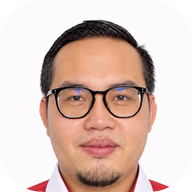
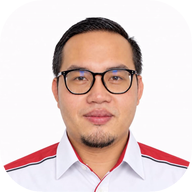
Ikon laman: potongan lebih luas (rambut + kolar)

diff --git a/en/index.html b/en/index.html
@@ -18,9 +18,9 @@
 <meta property="og:image" content="https://wanjasni.my/img/og.jpg?v=3">
 <meta property="og:url" content="https://wanjasni.my/en/">
 <meta name="twitter:card" content="summary_large_image">
-<link rel="icon" href="../img/icon-32.png?v=1" type="image/png" sizes="32x32">
-<link rel="icon" href="../img/icon-192.png?v=1" type="image/png" sizes="192x192">
-<link rel="apple-touch-icon" href="../img/apple-touch-icon.png?v=1">
+<link rel="icon" href="../img/icon-32.png?v=2" type="image/png" sizes="32x32">
+<link rel="icon" href="../img/icon-192.png?v=2" type="image/png" sizes="192x192">
+<link rel="apple-touch-icon" href="../img/apple-touch-icon.png?v=2">
 <link rel="preconnect" href="https://fonts.googleapis.com">
 <link rel="preconnect" href="https://fonts.gstatic.com" crossorigin>
 <link href="https://fonts.googleapis.com/css2?family=Inter:wght@400;500;600;700;800;900&display=swap" rel="stylesheet">

diff --git a/index.html b/index.html
@@ -18,9 +18,9 @@
 <meta property="og:image" content="https://wanjasni.my/img/og.jpg?v=3">
 <meta property="og:url" content="https://wanjasni.my/">
 <meta name="twitter:card" content="summary_large_image">
-<link rel="icon" href="img/icon-32.png?v=1" type="image/png" sizes="32x32">
-<link rel="icon" href="img/icon-192.png?v=1" type="image/png" sizes="192x192">
-<link rel="apple-touch-icon" href="img/apple-touch-icon.png?v=1">
+<link rel="icon" href="img/icon-32.png?v=2" type="image/png" sizes="32x32">
+<link rel="icon" href="img/icon-192.png?v=2" type="image/png" sizes="192x192">
+<link rel="apple-touch-icon" href="img/apple-touch-icon.png?v=2">
 <link rel="preconnect" href="https://fonts.googleapis.com">
 <link rel="preconnect" href="https://fonts.gstatic.com" crossorigin>
 <link href="https://fonts.googleapis.com/css2?family=Inter:wght@400;500;600;700;800;900&display=swap" rel="stylesheet">
